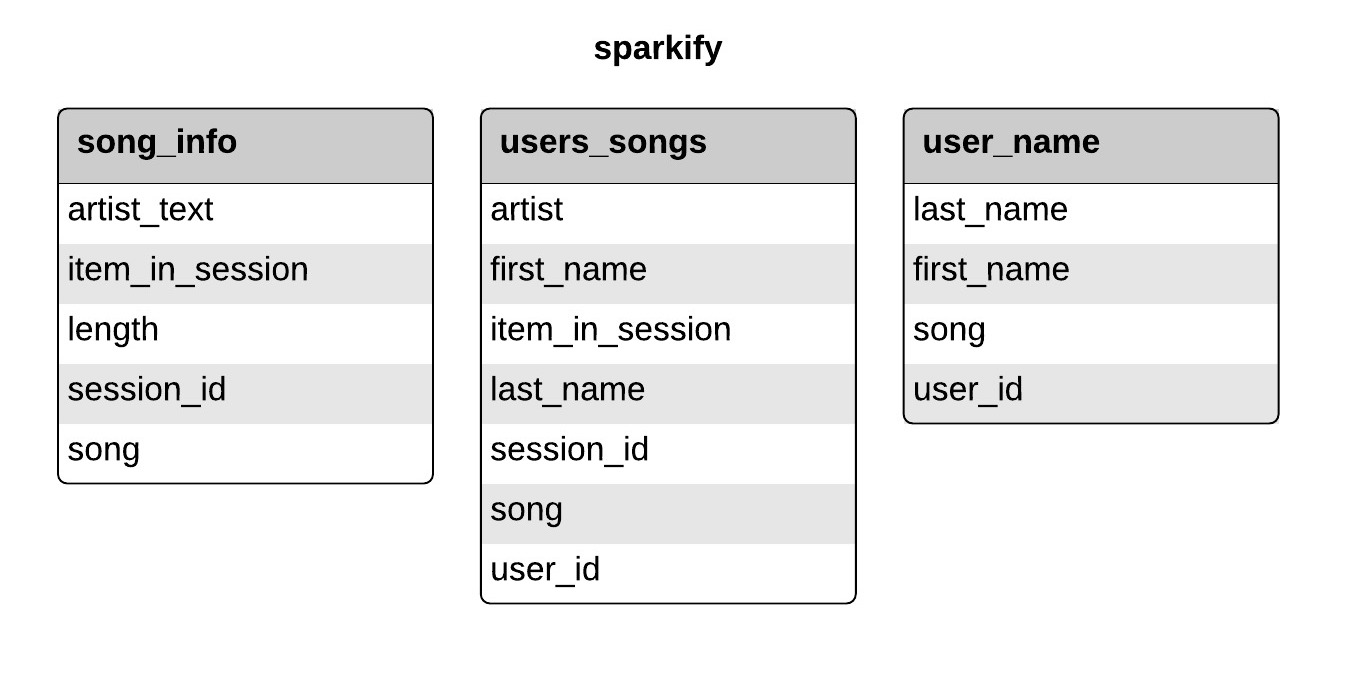
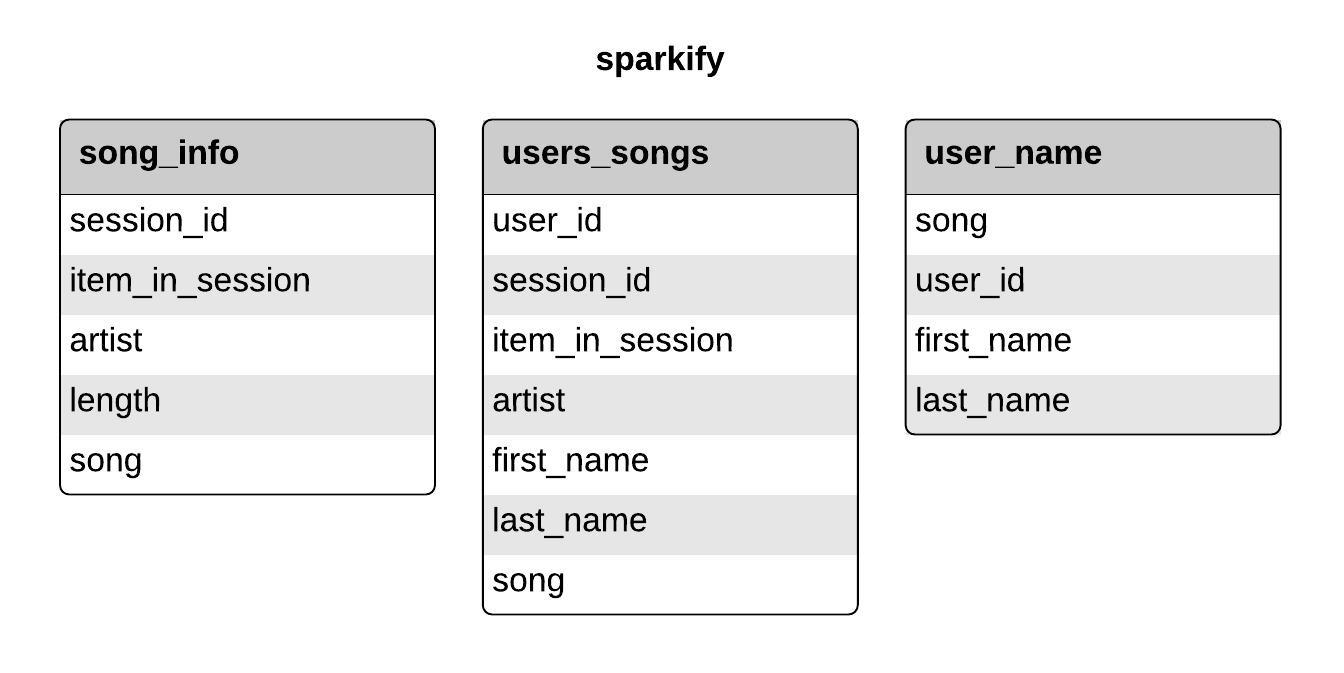
fix ordering of columns to match primary keys

Changed region(s): [[0.0312, 0.156, 0.9688, 0.9361], [0.4375, 0.0312, 0.5625, 0.1248]]

diff --git a/cql_queries.py b/cql_queries.py
@@ -9,10 +9,10 @@ Author: M. Sanchez-Ayala 3/31/2020
 song_info_create = """
     CREATE TABLE IF NOT EXISTS
       song_info (
-        artist text,
-        item_in_session int,
-        length float,
         session_id int,
+        item_in_session int,
+        artist text,
+        length float,
         song text,
         PRIMARY KEY (session_id, item_in_session)
       )
@@ -21,13 +21,13 @@ song_info_create = """
 users_songs_create = """
     CREATE TABLE IF NOT EXISTS
       users_songs (
+        user_id int,
+        session_id int,
+        item_in_session int,
         artist text,
         first_name text,
-        item_in_session int,
         last_name text,
-        session_id int,
         song text,
-        user_id int,
         PRIMARY KEY (user_id, session_id, item_in_session)
       )
 """
@@ -35,10 +35,10 @@ users_songs_create = """
 user_name_create = """
     CREATE TABLE IF NOT EXISTS
       user_name (
-        last_name text,
-        first_name text,
         song text,
         user_id int,
+        last_name text,
+        first_name text,
         PRIMARY KEY (song, user_id)
       )
 """
@@ -48,10 +48,10 @@ user_name_create = """
 song_info_insert = """
     INSERT INTO
       song_info (
-        artist,
-        item_in_session,
-        length,
         session_id,
+        item_in_session,
+        artist,
+        length,
         song
       )
     VALUES
@@ -61,13 +61,13 @@ song_info_insert = """
 users_songs_insert = """
     INSERT INTO
       users_songs (
+        user_id,
+        session_id,
+        item_in_session,
         artist,
         first_name,
-        item_in_session,
         last_name,
-        session_id,
-        song,
-        user_id
+        song
       )
     VALUES
       (%s, %s, %s, %s, %s, %s, %s)
@@ -76,10 +76,10 @@ users_songs_insert = """
 user_name_insert = """
     INSERT INTO
       user_name (
-        first_name,
-        last_name,
         song,
-        user_id
+        user_id,
+        first_name,
+        last_name
       )
     VALUES
       (%s, %s, %s, %s)

diff --git a/etl.py b/etl.py
@@ -142,20 +142,20 @@ def load_data(session):
             # First table
             session.execute(
                 song_info_insert,
-                (line[0], int(line[3]), float(line[5]), int(line[8]), line[9])
+                (int(line[8]), int(line[3]), line[0], float(line[5]), line[9])
             )
 
             # Second table
             session.execute(
                 users_songs_insert,
-                (line[0], line[1], int(line[3]), line[4],
-                 int(line[8]), line[9], int(line[10]))
+                (int(line[10]), int(line[8]), int(line[3]), line[0],
+                line[1], line[4], line[9])
             )
 
             # Third table
             session.execute(
                 user_name_insert,
-                (line[1], line[4], line[9], int(line[10]))
+                (line[9], int(line[10]), line[1], line[4])
             )
 
 
